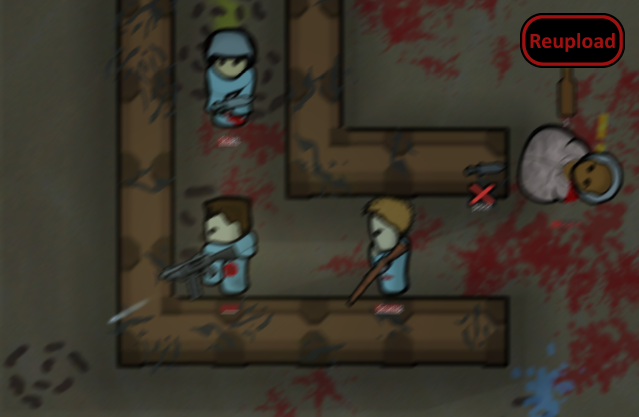
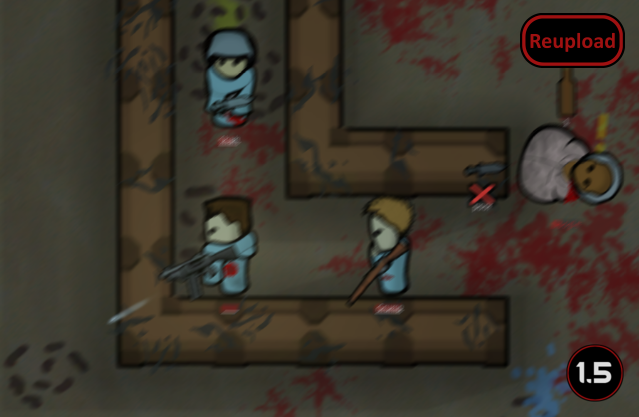
Mod updated for 1.5 and passed autotests

Changed region(s): [[0.8623, 0.8106, 0.9812, 0.9664]]

diff --git a/README.md b/README.md
@@ -43,11 +43,13 @@ https://steamcommunity.com/sharedfiles/filedetails/?id=1631756268
 
 -  See if the the error persists if you just have this mod and its requirements active.
 -  If not, try adding your other mods until it happens again.
--  Post your error-log using https://steamcommunity.com/workshop/filedetails/?id=818773962]HugsLib and command Ctrl+F12
+-  Post your error-log using https://steamcommunity.com/workshop/filedetails/?id=818773962]HugsLib or the standalone https://steamcommunity.com/sharedfiles/filedetails/?id=2873415404]Uploader and command Ctrl+F12
 -  For best support, please use the Discord-channel for error-reporting.
 -  Do not report errors by making a discussion-thread, I get no notification of that.
 -  If you have the solution for a problem, please post it to the GitHub repository.
+-  Use https://github.com/RimSort/RimSort/releases/latest]RimSort to sort your mods
 
 
 
+https://steamcommunity.com/sharedfiles/filedetails/changelog/2573253909]![Image](https://img.shields.io/github/v/release/emipa606/NoRangedCooldown?label=latest%20version&style=plastic&color=9f1111&labelColor=black)
 
